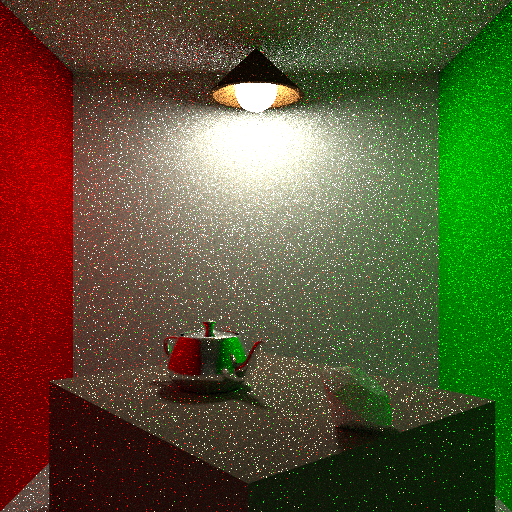
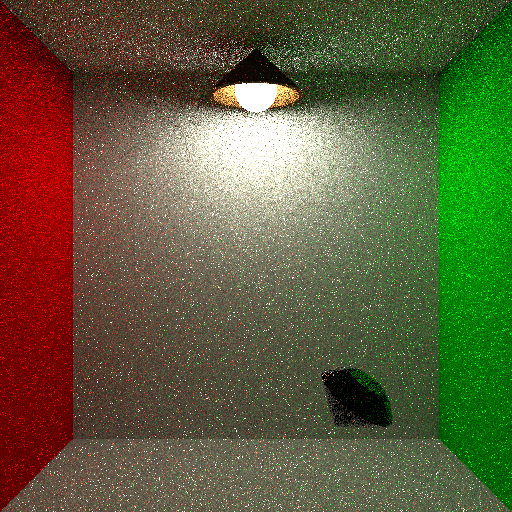
add sample transparent

diff --git a/src/BSDF.cpp b/src/BSDF.cpp
@@ -49,10 +49,13 @@ Color BlinnPhonBSDF::sample_f(const Vector3D & wo, Vector3D * wi, float * pdf, b
 	else if (!(pdf_transparent < 1e-10))
 	{
 		//TODO : implement sample transparent
-		bsdf = sample_diffuse(wo, wi, pdf) / pdf_diffuse;
+		//bsdf = sample_diffuse(wo, wi, pdf) / pdf_diffuse;
 		*is_sample_specular = true;
-		//bsdf = sample_transparent(wo, wi, pdf) / pdf_transparent;
+		bsdf = sample_transparent(wo, wi, pdf) / pdf_transparent;
+		//printf("transparent\n");
 	}
+	else
+		return Color();
 	if (isnan(bsdf.r) && isnan(bsdf.g) && isnan(bsdf.b))
 	{
 		printf("isnan sample bsdf %f %f %f , Xi %lf\n", pdf_diffuse, pdf_specular, pdf_transparent, Xi);
@@ -64,6 +67,17 @@ void BlinnPhonBSDF::reflect(const Vector3D& wo, Vector3D* wi) const
 {
 	*wi = Vector3D(-wo[0], -wo[1], wo[2]);
 
+}
+
+bool BlinnPhonBSDF::refract(const Vector3D& wo, Vector3D* wi, float Ni) const
+{
+	int sign = (wo.z >= 0 ? -1 : 1);
+	float eta = (wo.z >= 0 ? (1. / Ni) : Ni);
+	float intervalDelta = 1. - eta * eta * (1. - wo.z * wo.z);
+	if (intervalDelta < 0) return false;
+	*wi = Vector3D(-eta * wo[0], -eta * wo[1], (float)sign * sqrt(intervalDelta));
+	if (wi->z * wo.z > 0) printf("wrong\n");
+	return true;
 }
 
 Color BlinnPhonBSDF::f(const Vector3D& wo, const Vector3D& wi) const
@@ -99,5 +113,41 @@ Color BlinnPhonBSDF::sample_specular(const Vector3D & wo, Vector3D * wi, float *
 
 Color BlinnPhonBSDF::sample_transparent(const Vector3D & wo, Vector3D * wi, float * pdf) const
 {
-	return Color();
+	bool reflect_flag = false;
+	float eta;
+	if (!refract(wo, wi, Ni))
+	{
+		*pdf = 1.;
+		reflect_flag = true;
+	}
+	else
+	{
+		double R0, R;
+		R0 = pow((1. - Ni) / (1. + Ni), 2);
+		R = R0 + (1. - R0) * pow((1. - fabs(wo.z)), 5);
+		bool coin_flip = random_uniform() < R;
+		if (coin_flip)
+		{
+			*pdf = R;
+			reflect_flag = true;
+		}
+		else
+		{
+			*pdf = (1. - R);
+			reflect_flag = false;
+		}
+	}
+	if (reflect_flag)
+	{
+		reflect(wo, wi);
+		return Color(*pdf, *pdf, *pdf) / fabs((*wi).z);
+	}
+	else
+	{
+		refract(wo, wi, Ni);
+		if (wo.z >= 0) eta = 1.0 / Ni;
+		else eta = Ni;
+		if (wi->z * wo.z > 0) printf("wrong\n");
+		return Color(1 - Tf.r, 1- Tf.g, 1 - Tf.b) * (*pdf) / fabs((*wi).z) / pow(eta, 2);
+	}
 }

diff --git a/src/BSDF.h b/src/BSDF.h
@@ -64,7 +64,6 @@ public:
 
 	//sample a light, return the outgoing dir and pdf and color
 	Color sample_f(const Vector3D& wo, Vector3D* wi, float* pdf, bool * is_sample_specular) const;
-	void reflect(const Vector3D & wo, Vector3D * wi) const;
 	Color f(const Vector3D& wo, const Vector3D& wi) const;
 	Color Kd;
 private:
@@ -84,6 +83,10 @@ private:
 
 	CosineWeightedHemisphereSampler diffuse_sampler;
 	CosineNPowWeightedHemisphereSampler specular_sampler;
+
+	//helper func for sample_transparent
+	void reflect(const Vector3D & wo, Vector3D * wi) const;
+	bool refract(const Vector3D & wo, Vector3D * wi, float Ni) const;
 
 	Color sample_diffuse(const Vector3D& wo, Vector3D* wi, float* pdf) const;
 	Color sample_specular(const Vector3D& wo, Vector3D* wi, float* pdf) const;

diff --git a/src/main.cpp b/src/main.cpp
@@ -4,7 +4,7 @@
 int main()
 {
 	ray_tracer rt;
-	rt.init_scene(string("../../scene/Scene01/room1.obj"), string("22"));
+	rt.init_scene(string("../../scene/Scene01/room2.obj"), string("22"));
 	rt.trace_scene();
 
 	myypng png(100, 200);
